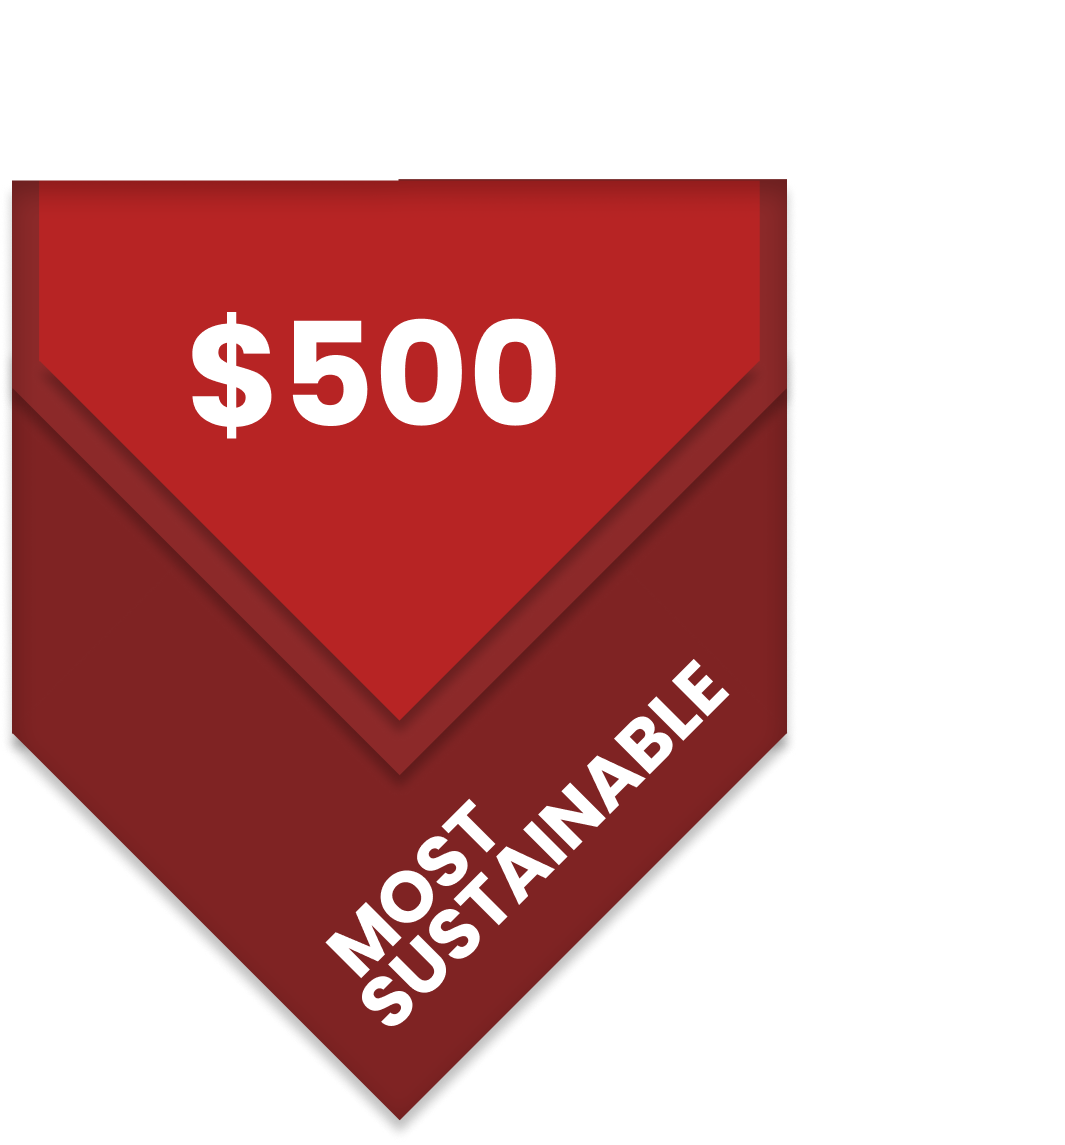
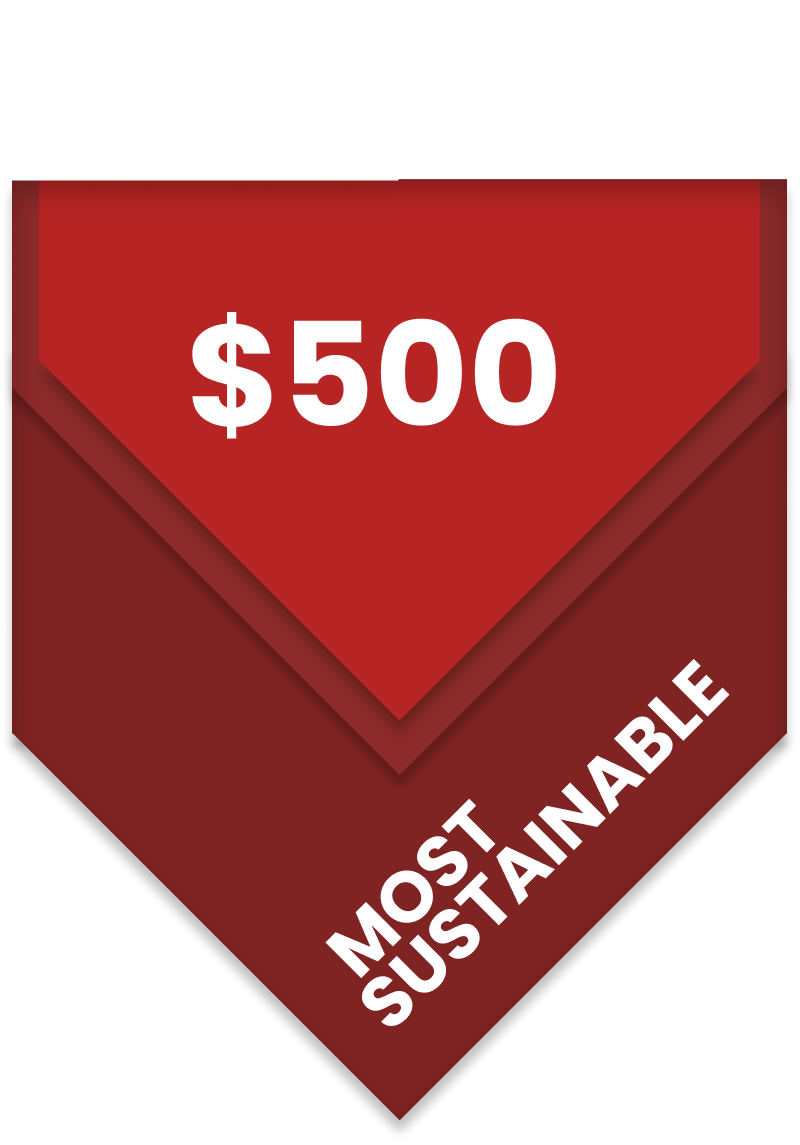
add some stuff for prizes

diff --git a/src/components/prizes/Prizes.tsx b/src/components/prizes/Prizes.tsx
@@ -2,9 +2,23 @@ import React from "react"
 
 const Prizes: React.FC = () => {
     return (
-        <div className="bg-inherit flex items-center justify-center text-black text-base h-screen">
-            <div className="rounded-md p-5 text-center bg-gray-300">
-                Prizes
+        <div className="bg-inherit flex flex-col items-center justify-center text-white uppercase text-base h-screen">
+            <div className="text-7xl font-extrabold">
+                prizes:
+            </div>
+            <div className="grid grid-cols-3 place-content-center">
+                <img 
+                    src="../prizes/amongsemis_label_text.png"
+                    className="w-[50vw] justify-self-center"
+                />
+                <img 
+                    src="../prizes/best_exhibition.png"
+                    className="w-[25vw] justify-self-center"
+                />
+                <img 
+                    src="../prizes/most_sustainable.png"
+                    className="w-[25vw] justify-self-center"
+                />
             </div>
         </div>
     )
